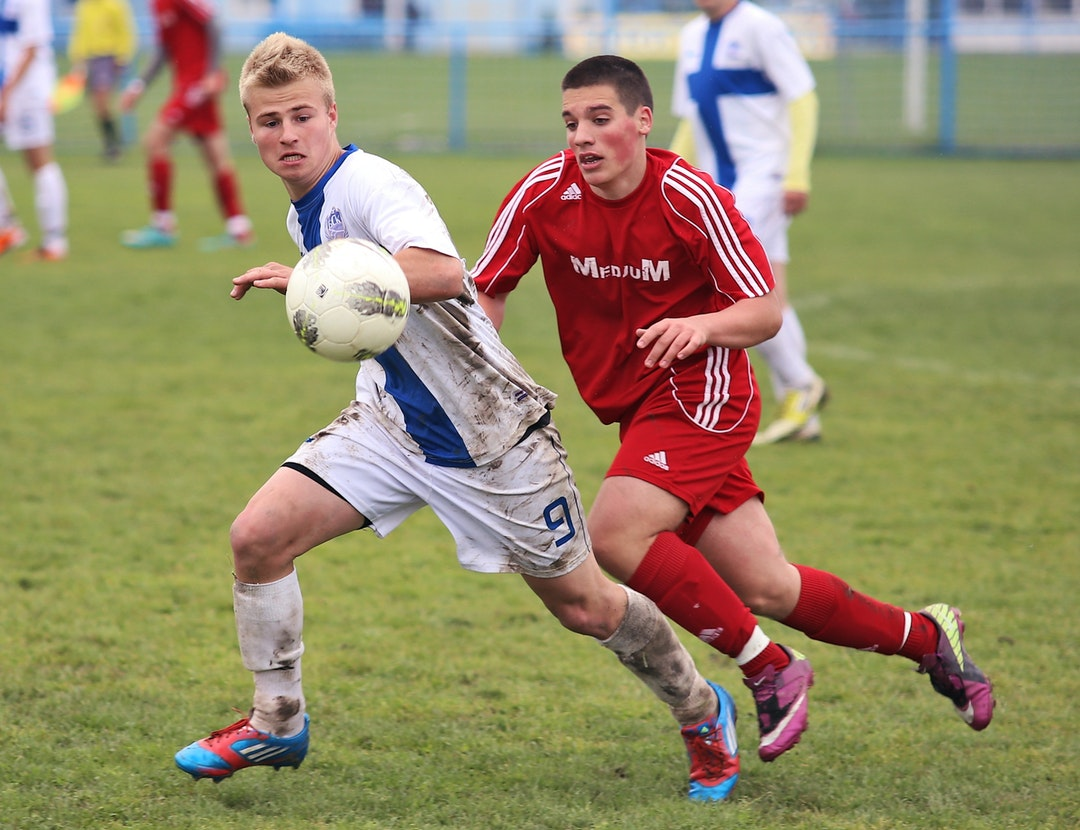
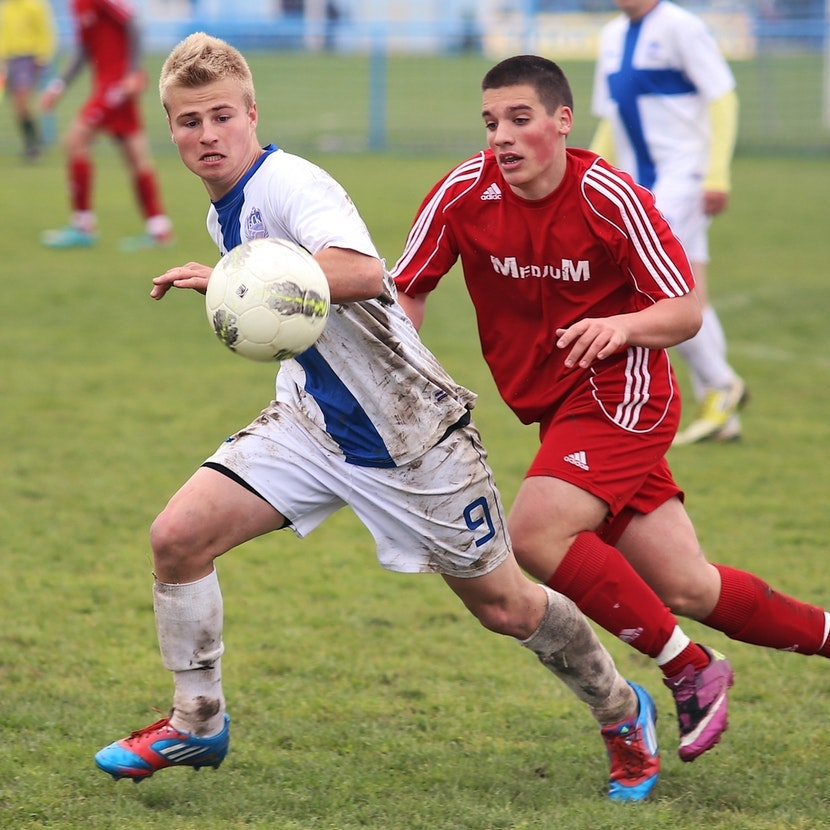
re-uploaded images in square formats in order to achieve perfect circles when styling. Removed rounde-circle class to images in html, where i will instead use border-raduis css styling to achiveve circle images

diff --git a/index.html b/index.html
@@ -63,7 +63,7 @@
 		<div class="container-fluid">
 			<div class="row">
 				<div class="col-md-4 col-lg-4 col-sm-12 about-me">
-					<img src="assets/images/profile-pic.png" class="rounded-circle img-fluid">
+					<img src="assets/images/profile-pic.png" class="img-fluid">
 					<h2>About Me</h2>
 					<p>Lorem ipsum dolor sit amet consectetur adipisicing elit. Ex, dolores illo. Facere quidem optio
 						distinctio non, adipisci porro esse nam cupiditate ducimus minus excepturi illum doloribus
@@ -71,7 +71,7 @@
 						architecto nobis accusamus. Alias velit pariatur rerum atque repellat. Ab culpa id ratione.</p>
 				</div>
 				<div class="col-md-4 col-lg-4 col-sm-12 smart-philosophy">
-					<img src="assets/images/smart.jpg" class="rounded-circle img-fluid">
+					<img src="assets/images/smart.jpg" class="img-fluid">
 					<h2>SMART Philosophy</h2>
 					<p>Lorem ipsum dolor sit amet consectetur adipisicing elit. Ex, dolores illo. Facere quidem optio
 						distinctio non, adipisci porro esse nam cupiditate ducimus minus excepturi illum doloribus
@@ -79,7 +79,7 @@
 						architecto nobis accusamus. Alias velit pariatur rerum atque repellat. Ab culpa id ratione.</p>
 				</div>
 				<div class="col-md-4 col-lg-4 col-sm-12 how-i-can-help">
-					<img src="assets/images/help-you.jpg" class="rounded-circle img-fluid">
+					<img src="assets/images/help-you.jpg" class="img-fluid">
 					<h2>How I can Help</h2>
 					<p>Lorem ipsum dolor sit amet consectetur adipisicing elit. Ex, dolores illo. Facere quidem optio
 						distinctio non, adipisci porro esse nam cupiditate ducimus minus excepturi illum doloribus
@@ -89,7 +89,7 @@
 			</div>
 		</div>
 	</section>
-	<!-- Carousel Testimonial section -->
+	<!-- Carousel Testimonial section --> <!------>
 	<section class="testimonial-section">
 		<div id="carouselIndicators" class="carousel slide container" data-ride="carousel">
 			<ol class="carousel-indicators">
@@ -104,7 +104,7 @@
 							<div class="col-sm-6 col-md-4 col-lg-3">
 								<div class="card">
 									<div class="card-body">
-										<img src="assets/images/testimonial-6.jpg" class="rounded-circle img-fluid">
+										<img src="assets/images/testimonial-6.jpg" class="img-fluid">
 										<div class="card-text">
 											"Lorem ipsum dolor sit amet, consectetur adipiscing elit. Nam ornare
 											pharetra
@@ -117,7 +117,7 @@
 							<div class="col-sm-6 col-md-4 col-lg-3">
 								<div class="card">
 									<div class="card-body">
-										<img src="assets/images/testimonial-5.jpg" class="rounded-circle img-fluid">
+										<img src="assets/images/testimonial-5.jpg" class="img-fluid">
 										<div class="card-text">
 											"Lorem ipsum dolor sit amet, consectetur adipiscing elit. Nam ornare
 											pharetra
@@ -130,7 +130,7 @@
 							<div class="col-sm-6 col-md-4 col-lg-3">
 								<div class="card">
 									<div class="card-body">
-										<img src="assets/images/testimonial-4.jpg" class="rounded-circle img-fluid">
+										<img src="assets/images/testimonial-4.jpg" class="img-fluid">
 										<div class="card-text">
 											"Lorem ipsum dolor sit amet, consectetur adipiscing elit. Nam ornare
 											pharetra

diff --git a/assets/css/style.css b/assets/css/style.css
@@ -19,9 +19,8 @@ body {
 }
 
 .card {
-    text-align: center;
     color: black;
-    height: 400px;
+    height: auto;
 }
 
 .navbar-brand {
@@ -33,12 +32,13 @@ body {
 }
 
 .hero-heading-content {
-    background-color: rgba(0, 0, 0, .8)
+    background-color: rgba(0, 0, 0, .8);
+    border-radius: 10px;
     }
 
 .img-fluid {
-    width: 300px;
-    height: 300px;
+    width: 100%;
+    height: auto;
     object-fit: cover;
     padding-left: 20px;
     padding-right: 20px;
